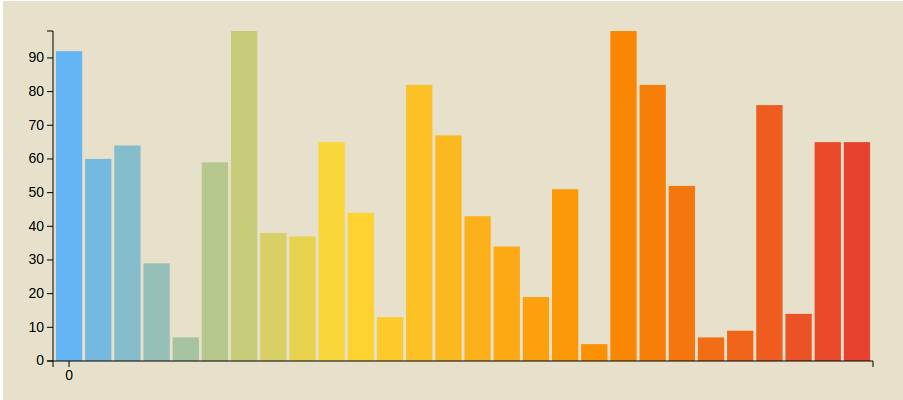
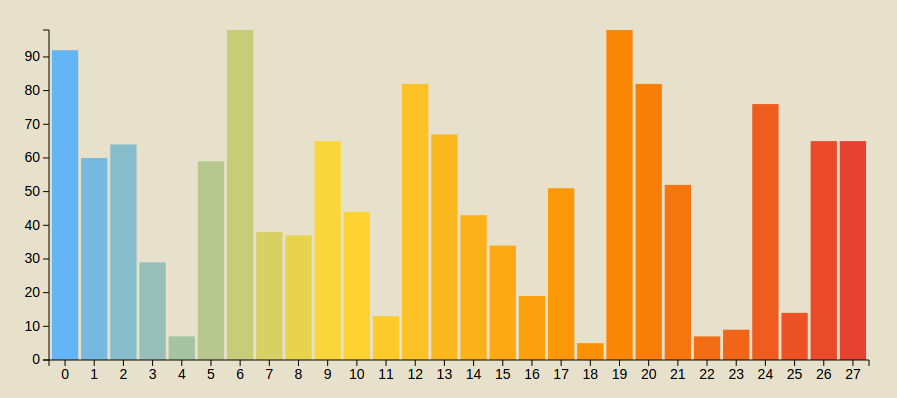
Added vertically Aligned charts

Changed region(s): [[0.0, 0.0, 0.9677, 1.0], [0.437, 0.2111, 0.4682, 0.2412]]

diff --git a/components/VerticalBarChart/index.js b/components/VerticalBarChart/index.js
@@ -1,11 +1,10 @@
 import React from 'react'
 
-import { oContainer } from './BarChart.scss'
-
+import { oContainer } from './VerticalBarChart.scss'
 
 import className from 'classnames'
 
-export class BarChart extends React.Component{
+export class VerticalBarChart extends React.Component{
   constructor(props){
     super(props);
   }
@@ -35,31 +34,41 @@ export class BarChart extends React.Component{
     }
   }
 
-  yScale(barData, d, height){
-    var yScaler = d3.scale.linear()
-                    .domain([0, d3.max(barData)])
-                    .range([0, height])
-    return yScaler(d)
+  setWidth(){
+    switch( this.props.width ){
+      case 'small':
+        console.log("in here")
+        return 350;
+      case 'medium':
+        return 500;
+      case 'large':
+        return 750;
+    }
   }
 
   componentDidMount(){
     var barData = []
     const that =this
     var margin = { top: 30, right: 30 , bottom: 40, left: 50 }
-    var height = 400 - margin.top - margin.bottom,
-        width = 900 - margin.left - margin.right,
+    var height = 900 - margin.left - margin.right,
+        width = this.setWidth(), 
         barWidth = 50,
         barOffset = 5;
+        
+    width = width - margin.top - margin.bottom
 
     d3.tsv('./components/BarChart/Data/data.tsv', function(data){
       data.map(k=>{
         barData.push(k.Value)
       })
 
+      var yScale = d3.scale.linear()
+                    .domain([0, d3.max(barData)])
+                    .range([0, width])
 
       var xScale = d3.scale.ordinal()
                      .domain(d3.range(0, barData.length))
-                     .rangeBands([0, width], .1)
+                     .rangeBands([0, height], .1)
 
       var color = that.assignColor(barData)
 
@@ -81,11 +90,9 @@ export class BarChart extends React.Component{
                           .selectAll('rect').data(barData)
                           .enter().append('rect')
                             .style('fill', that.colorStyle( color ))
-                            .attr('width', xScale.rangeBand())
-                            .attr('height', 0)
-                            .attr('x', function(d, i){
-                              return xScale(i)
-                            })
+                            .attr('width', 0)
+                            .attr('height', xScale.rangeBand())
+                            .attr('x', 0)
                             .attr('y', height)
 
       .on('mouseover', function(d){
@@ -109,48 +116,42 @@ export class BarChart extends React.Component{
       })
 
       barChart.transition()
-        .attr('height', function(d){
-              return that.yScale(barData, d, height);
+        .attr('width', function(d){
+              return yScale(d);
           })
-        .attr('y', function(d){
-              return height - that.yScale(barData, d, height);
-          })
+        .attr('y', function(d, i){
+          console.log(xScale(i))
+          return xScale(i)
+        })
         .delay(function(d, i){
           return i * 10;
         })
         .duration(1000)
         .ease('elastic')
 
-
-      var vGuideScale = d3.scale.linear()
-                          .domain([0, d3.max(barData)])
-                          .range([height, 0])
-
       var vAxis = d3.svg.axis()
-                    .scale(vGuideScale)
-                    .orient('left')
+                    .scale(yScale)
+                    .orient('bottom')
                     .ticks(10)
 
       var hAxis = d3.svg.axis()
                     .scale(xScale)
-                    .orient('bottom')
+                    .orient('left')
                     .ticks(xScale.domain().filter(function(d,i){
                       return !(i% (barData.length/5));
                     }))
 
       var vGuide = d3.select('.svg'+that.props.chartID).append('g')
         vAxis(vGuide)
-        vGuide.attr('transform', 'translate('+ margin.left + ',' + margin.top +')')
+        vGuide.attr('transform', 'translate('+ margin.left + ',' + (height + margin.top) +')')
         vGuide.selectAll('path')
           .style({ fill:'none' , stroke: "#000"})
         vGuide.selectAll('line')
           .style({ stroke: "#000"})
 
-      
-
       var hGuide = d3.select('.svg'+that.props.chartID).append('g')
         hAxis(hGuide)
-        hGuide.attr('transform', 'translate('+ margin.left + ',' + (height + margin.top) +')')
+        hGuide.attr('transform', 'translate('+ margin.left + ',' + margin.top +')')
         hGuide.selectAll('path')
           .style({ fill:'none' , stroke: "#000"})
         hGuide.selectAll('line')

diff --git a/components/Container/index.js b/components/Container/index.js
@@ -5,6 +5,7 @@ import { PracticeD3 } from '../PracticeD3'
 import { PracticeSVG } from '../PracticeSVG'
 import { BarChart } from '../BarChart'
 import { PieChart } from '../PieChart'
+import { VerticalBarChart } from '../VerticalBarChart'
 import { box, chart, oContainer, flexContainer } from './Container.scss'
 
 export class Container extends React.Component {
@@ -48,6 +49,9 @@ export class Container extends React.Component {
           <BarChart chartID={'chart1'} colorAlign={ 'horizontal' } title={ 'Barchart Horizontal Colors' }/>
           <BarChart chartID={'chart2'} colorAlign={ 'vertical' } title={ 'Barchart Vertical Colors' }/>
           <PieChart chartID={'chart3'} title={ 'Pie Chart' } />
+          <VerticalBarChart width={ 'small' } chartID={'chart4'} colorAlign={ 'vertical' } title={ 'Vertically Aligned Barchart' }/>
+          <VerticalBarChart width={ 'medium' } chartID={'chart5'} colorAlign={ 'vertical' } title={ 'Vertically Aligned Barchart' }/>
+          <VerticalBarChart width={ 'large' } chartID={'chart6'} colorAlign={ 'vertical' } title={ 'Vertically Aligned Barchart' }/>
         </div>
       </div>
     );

diff --git a/components/VerticalBarChart/VerticalBarChart.scss b/components/VerticalBarChart/VerticalBarChart.scss
@@ -1,0 +1,4 @@
+.oContainer{
+	margin-right:20px;
+	margin-left:20px;
+}
